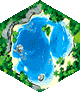
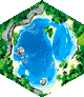
more work in the UI

diff --git a/taluva.css b/taluva.css
@@ -1,7 +1,7 @@
 /**
  *------
- * BGA framework: Ã‚Â© Gregory Isabelli <gisabelli@boardgamearena.com> & Emmanuel Colin <ecolin@boardgamearena.com>
- * Taluva implementation : Ã‚Â© quietmint
+ * BGA framework: Ãƒâ€šÃ‚Â© Gregory Isabelli <gisabelli@boardgamearena.com> & Emmanuel Colin <ecolin@boardgamearena.com>
+ * Taluva implementation : Ãƒâ€šÃ‚Â© quietmint
  *
  * This code has been produced on the BGA studio platform for use on http://boardgamearena.com.
  * See http://en.boardgamearena.com/#!doc/Studio for more information.
@@ -22,10 +22,16 @@
     height: 880px;
     width: 100%;
     display: block;
-    background-repeat: repeat;
-    background-image: url('img/background.jpg');
+    background-size: 100% 100%;
+    background-repeat: no-repeat;
+    background-image: url('img/background2.jpg');
     border-radius: 10px;
     box-shadow: 6px 6px 2px 0px rgba(0, 0, 0, 0.65);
+}
+
+#playArea div {
+    transform-style: preserve-3d;
+    -webkit-transform-style: preserve-3d;
 }
 
 @media screen and (min-width: 1920px) {
@@ -242,7 +248,7 @@
   transform: scale(0.85);
   cursor: pointer;
   animation: 350ms fade-in ease-in-out;
-  
+  background:  url(img/hex.png);
 }
 
 .face.rotate {
@@ -290,6 +296,88 @@
   background: url(img/lake84.png);
     background-repeat:no-repeat;
 }
+
+.level1 .face{
+   transform: translateZ(20px);
+}
+.level2 .face{
+   transform: translateZ(40px);
+}
+.level3 .face{
+   transform: translateZ(60px);
+}
+.level4 .face{
+   transform: translateZ(80px);
+}
+.level5 .face{
+   transform: translateZ(100px);
+}
+.level6 .face{
+   transform: translateZ(120px);
+}
+
+.level1.possible{
+   transform: translateZ(20px);
+}
+.level2.possible{
+   transform: translateZ(40px);
+}
+.level3.possible{
+   transform: translateZ(60px);
+}
+.level4.possible{
+   transform: translateZ(80px);
+}
+.level5.possible{
+   transform: translateZ(100px);
+}
+.level6.possible{
+   transform: translateZ(120px);
+}
+
+
+#playArea .tile .face::after {
+  content:"";
+  position: absolute;
+  width: 84px;
+  height: 97px;
+  background: url(img/tileback.png);
+  transform: translateZ(-18px);
+}
+
+#playArea .tile .side1 {
+  content:"";
+  position: absolute;
+  width: 97px;
+  height: 18px;
+  background: #bbbbbb;
+  transform-origin: bottom center;
+  transform: rotatez(90deg) translatex(32px) translatey(6px) rotatex(90deg);
+}
+
+
+#playArea .tile .side2 {
+  content:"";
+  position: absolute;
+  width: 97px;
+  height: 18px;
+  background: #bbbbbb;
+  transform-origin: bottom center;
+  transform: rotatez(90deg) translatex(32px) translatey(6px) rotatex(90deg) rotatey(-60deg);
+}
+
+
+#playArea .tile .side3 {
+  content:"";
+  position: absolute;
+  width: 97px;
+  height: 18px;
+  background: #bbbbbb;
+  transform-origin: bottom center;
+  transform: rotatez(90deg) translatex(32px) translatey(6px) rotatex(90deg) rotatey(60deg);
+}
+
+
 
 /** 3D Sides */
 

diff --git a/taluva.js b/taluva.js
@@ -348,7 +348,7 @@ define([
                 for (var i in this.gamedatas.gamestate.args.possible) {
                     var possible = this.gamedatas.gamestate.args.possible[i];
                     var coords = this.getCoords(possible.x, possible.y);
-                    var possibleEl = dojo.place('<div id="possible_' + i + '" class="face possible" style="' + coords.style + '">' + (possible.z > 1 ? possible.z : '') +
+                    var possibleEl = dojo.place('<div id="possible_' + i + '" class="face possible level'+possible.z+'" style="' + coords.style + '">' + (possible.z > 1 ? possible.z : '') +
                         '</div>', 'map_scrollable_oversurface');
                 }
                 dojo.query('.face.possible').connect('onclick', this, 'onClickPossible');
